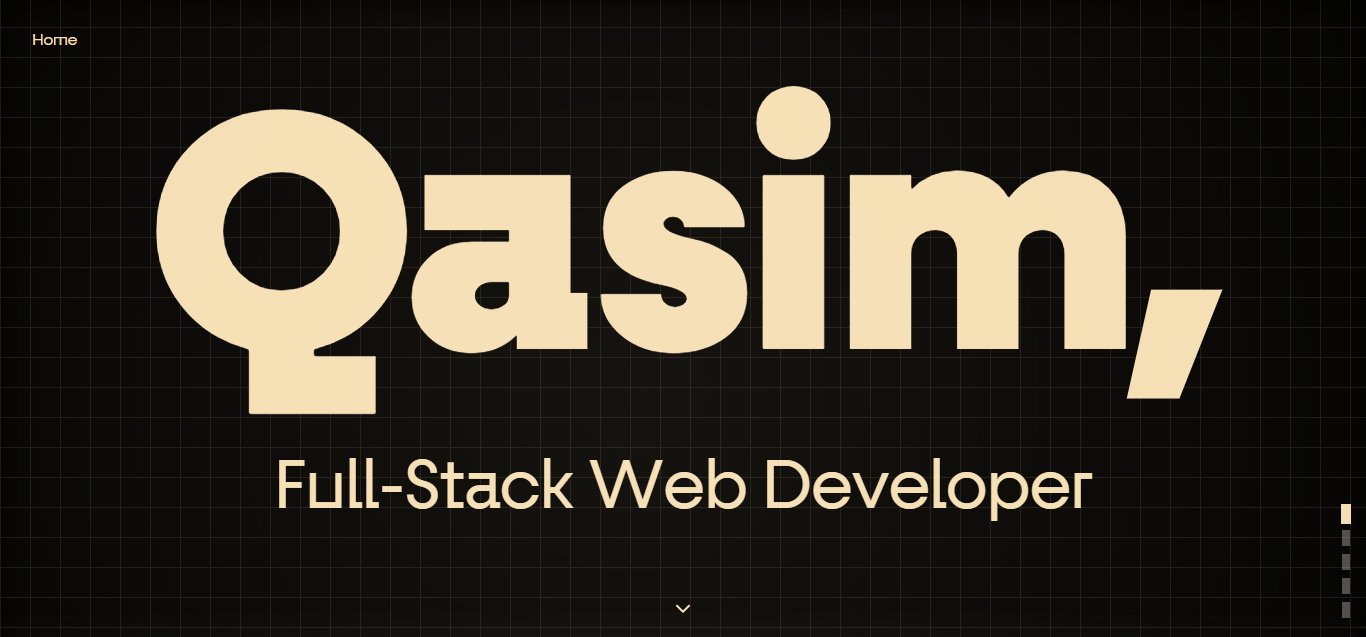
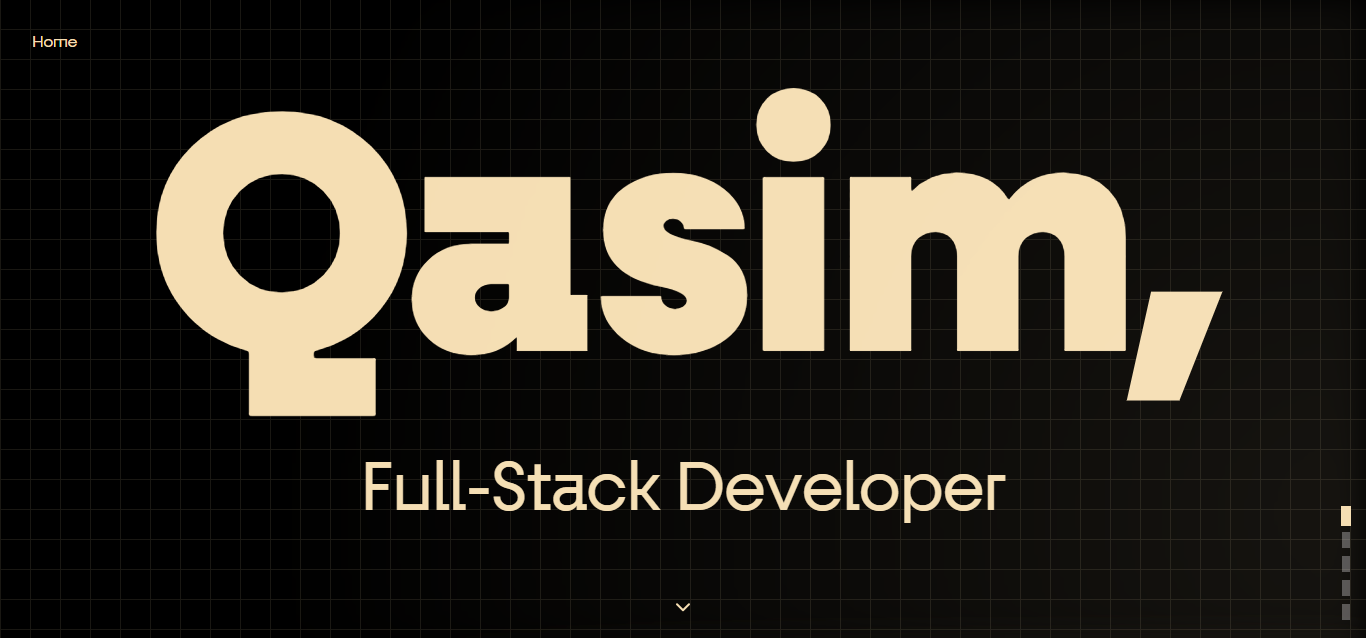
Add the new project

diff --git a/src/Components/Project/Project Components/ecommerceDetailPage.tsx b/src/Components/Project/Project Components/ecommerceDetailPage.tsx
@@ -1,0 +1,73 @@
+import React from "react";
+import ProjectDetailedView from "./ProjectDetailedView";
+
+const EcommerceDetailPage = () => {
+  const ecommerceProject = {
+    title: "E-Commerce Platform",
+    overview:
+      "E-commerce platform built for a retail client requiring enterprise-grade reliability and scalability. The solution handles complete business operations including multi-vendor management, secure payment processing, and real-time inventory tracking, processing hundreds of transactions monthly with 100% order fulfillment accuracy.",
+    features: [
+      "Complete business workflow: Product listing → Cart → Checkout → Order tracking → Fulfillment",
+      "Multi-tenant architecture supporting admins, sellers, and customers with role-based permissions",
+      "Stripe payment integration with webhook validation ensuring zero transaction failures",
+      "Real-time inventory management preventing overselling and stock discrepancies",
+      "Automated media management (Cloudinary) with scheduled cleanup of orphaned assets",
+      "Comprehensive admin dashboard for sales analytics, user management, and business insights",
+      "Email notification system for order confirmations, shipping updates, and customer support",
+      "Advanced search and filtering with product categorization and attribute-based browsing",
+      "Secure authentication with JWT and session management protecting sensitive customer data",
+      "Responsive design ensuring seamless shopping experience across all devices",
+      "Type-safe database operations with Zod validation preventing data corruption",
+      "Global error handling and logging for monitoring and rapid issue resolution",
+    ],
+    techStack: [
+      "Next.js (Full-stack framework)",
+      "Node.js & Express.js (Backend API)",
+      "MongoDB with Mongoose (Database)",
+      "TypeScript (Type safety)",
+      "Stripe API (Payment processing)",
+      "Cloudinary (Media management)",
+      "Zod (Runtime validation)",
+      "Tailwind CSS (Styling)",
+      "JWT (Authentication)",
+      "Resend (Email notifications)",
+    ],
+    challenges: [
+      {
+        title: "Payment Reconciliation at Scale",
+        description:
+          "Designing a fault-tolerant payment system that guaranteed 100% order fulfillment accuracy, handling edge cases including refunds, disputes, and network failures while maintaining perfect transaction records for client accounting.",
+      },
+      {
+        title: "Historical Data Preservation for Auditing",
+        description:
+          "Creating database schemas that preserved historical pricing and order details for financial auditing and compliance, ensuring accurate records even after product updates and price changes.",
+      },
+      {
+        title: "Production-Grade Media Management",
+        description:
+          "Building automated systems to prevent cloud storage cost overruns by eliminating orphaned uploads and implementing lifecycle management for product images across updates and deletions.",
+      },
+      {
+        title: "Enterprise Error Handling",
+        description:
+          "Developing comprehensive monitoring and error recovery systems that maintained platform uptime during third-party service outages and provided actionable alerts for the client's operations team.",
+      },
+    ],
+    learnings: [
+      "Client requirements often prioritize reliability and compliance over feature velocity - building audit trails and validation is non-negotiable",
+      "Production payment systems require redundant validation (client-side, server-side, webhook) to prevent revenue loss and customer disputes",
+      "Enterprise applications demand proactive monitoring - errors should be caught, logged, and resolved before affecting end users",
+      "Third-party service integration requires robust fallback strategies and regular health checks to maintain system reliability",
+      "Database design for business applications must balance performance with historical accuracy for financial and legal compliance",
+      "Clear documentation and handover processes are critical for client success, especially for ongoing maintenance",
+      "Security in multi-tenant systems requires careful planning at every layer - authentication, authorization, and data access",
+      "Automated testing and deployment pipelines are essential for maintaining client confidence in production updates",
+    ],
+    linksLine: true
+  };
+
+  return <ProjectDetailedView project={ecommerceProject} />;
+};
+
+export default EcommerceDetailPage;

diff --git a/src/Components/AboutSection.tsx b/src/Components/AboutSection.tsx
@@ -20,26 +20,30 @@ function AboutSection() {
           <div className="flex-1">
             <div className="text-black md:text-sm sm:font-medium md:leading-relaxed sm:text-xs text-[10px] space-y-4">
               <p>
-                I am Muhammad Qasim, a full-stack web developer specializing in
-                the MERN stack, enhanced by Next.js for modern, scalable
-                applications.. My journey began with curiosity about how code
-                turns into interactive experiences, and has grown into a
-                dedication to delivering reliable solutions across both frontend
-                and backend.
-              </p>
+                {" "}
+                I am Muhammad Qasim, a full-stack developer specializing in
+                the MERN stack and Next.js, with additional expertise in
+                integrating AI features into modern, scalable applications. My
+                journey began with curiosity about how code turns into
+                interactive experiences, and has grown into a dedication to
+                delivering reliable solutions across both frontend and backend.{" "}
+              </p>{" "}
               <p>
+                {" "}
                 I have delivered multiple production-grade projects with 99%+
                 uptime, working with Node.js, Express.js, Next.js, React,
-                TypeScript and other modern technologies. I focus on writing
-                clean, maintainable code, seamless API integration, and ensuring
-                consistent performance across all devices.
-              </p>
+                TypeScript and AI technologies like OpenAI APIs. I focus on
+                writing clean, maintainable code, seamless API integration, and
+                ensuring consistent performance across all devices while
+                implementing intelligent workflows.{" "}
+              </p>{" "}
               <p>
+                {" "}
                 Every project is a chance to enhance problem-solving skills,
-                explore emerging technologies, and adhere to modern development
-                standards. I am currently pursuing ICS while contributing to
-                open-source and expanding my full-stack expertise across the
-                modern web development ecosystem.
+                explore emerging technologies including AI, and adhere to modern
+                development standards. I am currently pursuing ICS while
+                contributing to open-source and expanding my full-stack
+                expertise across the modern web development ecosystem.{" "}
               </p>
             </div>
           </div>

diff --git a/index.html b/index.html
@@ -10,15 +10,15 @@
 
     <title>Full-Stack Web Developer - Muhammad Qasim</title>
     <meta name="author" content="Muhammad Qasim" />
-    <meta name="keywords" content="full-stack web developer, MERN stack developer, Next.js developer, React developer developer, Node.js developer, MongoDB developer, web developer portfolio" />
-    <meta name="description" content="Muhammad Qasim - Full-Stack Web Developer specializing in MERN & Next.js. I build fast, scalable, production-ready web applications with clean architecture and modern UI." />
+    <meta name="keywords" content="full-stack developer, MERN stack developer, Next.js developer, React developer developer, Node.js developer, MongoDB developer, web developer portfolio" />
+    <meta name="description" content="Muhammad Qasim - Full-Stack Developer specializing in MERN & Next.js. I build fast, scalable, production-ready web applications with clean architecture and modern UI." />
 
     <link rel="canonical" href="https://qasim-dev-portfolio.vercel.app/" />
     <meta name="robots" content="index, follow" />
 
     <meta property="og:type" content="website" />
     <meta property="og:url" content="https://qasim-dev-portfolio.vercel.app/" />
-    <meta property="og:title" content="Full-Stack Web Developer - Muhammad Qasim" />
+    <meta property="og:title" content="Full-Stack Developer - Muhammad Qasim" />
     <meta property="og:description" content="Explore my projects built using MERN Stack and Next.js." />
     <meta property="og:image" content="https://qasim-dev-portfolio.vercel.app/Home.png" />
     <meta property="og:image:alt" content="Portfolio of Muhammad Qasim" />
@@ -26,7 +26,7 @@
     <meta property="og:image:height" content="630" />
 
     <meta name="twitter:card" content="summary_large_image" />
-    <meta name="twitter:title" content="Full-Stack Web Developer - Muhammad Qasim" />
+    <meta name="twitter:title" content="Full-Stack Developer - Muhammad Qasim" />
     <meta name="twitter:description" content="Explore my MERN + Next.js development work." />
     <meta name="twitter:image" content="https://qasim-dev-portfolio.vercel.app/Home.png" />
 

diff --git a/src/App.tsx b/src/App.tsx
@@ -9,15 +9,16 @@ import ErrorPage from "./Components/ErrorHandling/ErrorPage";
 import ErrorBoundary from "./Components/ErrorHandling/ErrorBoundary";
 import { SectionContext, useSectionContext } from "./SectionContext";
 
+const EcommerceDetailPage = React.lazy(() => 
+  import("./Components/Project/Project Components/ecommerceDetailPage")
+);
+
 const ChatterDetailPage = React.lazy(() => 
   import("./Components/Project/Project Components/ChatterDetailPage")
 );
 
 const PortfolierDetailPage = React.lazy(() => 
   import("./Components/Project/Project Components/PortfolierDetailPage")
-);
-const CashflowerDetailPage = React.lazy(() => 
-  import("./Components/Project/Project Components/CashflowerDetailPage")
 );
 
 const LoadingSpinner: React.FC = () => {
@@ -219,6 +220,14 @@ const App: React.FC = () => {
         <Routes>
           <Route path="/" element={<MainPortfolio />} />
           <Route 
+            path="/ecommerce-detailed-view" 
+            element={
+              <Suspense fallback={<LoadingSpinner />}>
+                <EcommerceDetailPage />
+              </Suspense>
+            } 
+          />
+          <Route 
             path="/chatter-detailed-view" 
             element={
               <Suspense fallback={<LoadingSpinner />}>
@@ -231,14 +240,6 @@ const App: React.FC = () => {
             element={
               <Suspense fallback={<LoadingSpinner />}>
                 <PortfolierDetailPage />
-              </Suspense>
-            } 
-          />
-          <Route 
-            path="/cashflower-detailed-view" 
-            element={
-              <Suspense fallback={<LoadingSpinner />}>
-                <CashflowerDetailPage />
               </Suspense>
             } 
           />      

diff --git a/src/Components/Project/Project Components/ProjectDetailedView.tsx b/src/Components/Project/Project Components/ProjectDetailedView.tsx
@@ -12,8 +12,9 @@ interface Project {
     techStack: string[];
     challenges?: Challenge[];
     learnings?: string[];
-    codeLink: string;
-    liveDemo: string;
+    codeLink?: string;
+    liveDemo?: string;
+    linksLine?: boolean;
 }
 
 interface ProjectDetailedViewProps {
@@ -97,7 +98,7 @@ const ProjectDetailedView: React.FC<ProjectDetailedViewProps> = ({ project }) =>
           )}
 
           {/* Links */}
-          <section>
+          {(project.codeLink && project.liveDemo) && <section>
             <p className="mb-3 font-bold text-lg">Project Links</p>
             <div className="flex sm:gap-4 gap-2 mx-3">
               <a
@@ -117,7 +118,10 @@ const ProjectDetailedView: React.FC<ProjectDetailedViewProps> = ({ project }) =>
                 Live Demo →
               </a>
             </div>
-          </section>
+          </section>}
+          {project.linksLine && <section>
+            <p className="italic -mb-5"> - Live links unavailable due to client’s confidentiality agreement</p>
+          </section>}
         </div>
         <p className="text-center md:pb-3 pb-2 text-black md:text-xs text-[10px] font-medium">
           © {new Date().getFullYear()} Qasim. All rights reserved.

diff --git a/src/Components/Project/ProjectSection.tsx b/src/Components/Project/ProjectSection.tsx
@@ -12,6 +12,11 @@ const ProjectsSection: React.FC = () => {
       <div className="flex-1 flex items-center justify-center px-5">
         <div className="flex flex-wrap justify-center gap-4 max-w-7xl">
           <ProjectCard
+            title="E-Commerce Store"
+            image="/ecommerce.jpg"
+            detailsRoute="/ecommerce-detailed-view"
+          />
+          <ProjectCard
             title="Chatter"
             image="/chatter.png"
             detailsRoute="/chatter-detailed-view"
@@ -20,11 +25,6 @@ const ProjectsSection: React.FC = () => {
             title="Portfolier"
             image="/portfolier.png"
             detailsRoute="/portfolier-detailed-view"
-          />
-          <ProjectCard
-            title="Cashflower"
-            image="/cashflower.png"
-            detailsRoute="/cashflower-detailed-view"
           />
         </div>
       </div>

diff --git a/src/Components/ContactSection.tsx b/src/Components/ContactSection.tsx
@@ -171,7 +171,7 @@ const ContactSection: React.FC = () => {
             </p>
             <div className="space-y-1.5 flex flex-col items-center justify-center">
               <a
-                href="https://drive.google.com/file/d/1L9U_ECkJ07fIfk-zYz4M53lqaSLlqJ2x/view"
+                href="https://drive.google.com/file/d/1EYMZPpVSh6yuVhElWyfImSKTaidfe2mf/view?usp=sharing"
                 target="_blank"
                 rel="noreferrer"
                 className="text-[#f5deb3] cursor-pointer text-xs w-30 hover:opacity-90 hover:tracking-wide transition-all"

diff --git a/src/Components/HomeSection.tsx b/src/Components/HomeSection.tsx
@@ -26,7 +26,7 @@ const HomeSection: React.FC = () => {
           Qa<span className="lg:ml-3 md:ml-2.5 sm:ml-2 ml-0.5">s</span>im,
         </p>
         <KineticWord 
-          text="Full-Stack Web Developer"
+          text="Full-Stack Developer"
           className="text-[#f5deb3] text-[5vw] tracking-tight text-center leading-tighter font-medium"
           delayOffset={0.1}
         />
